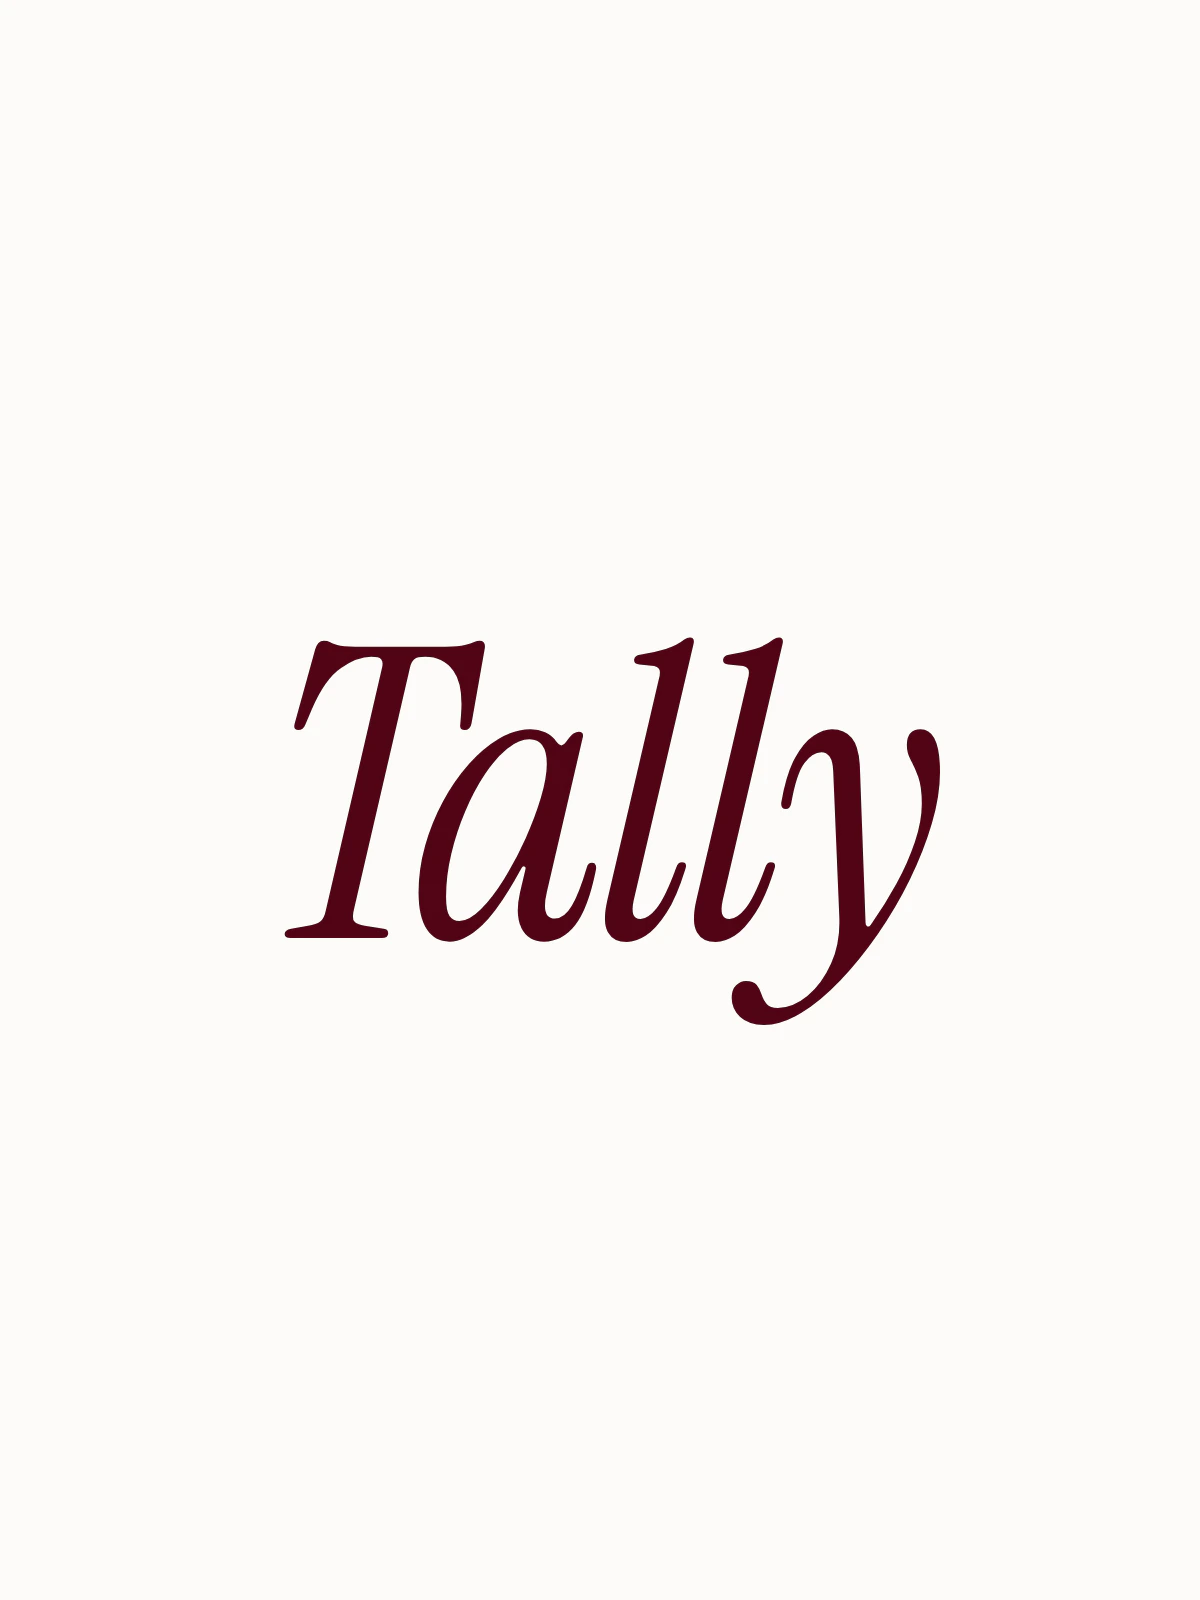
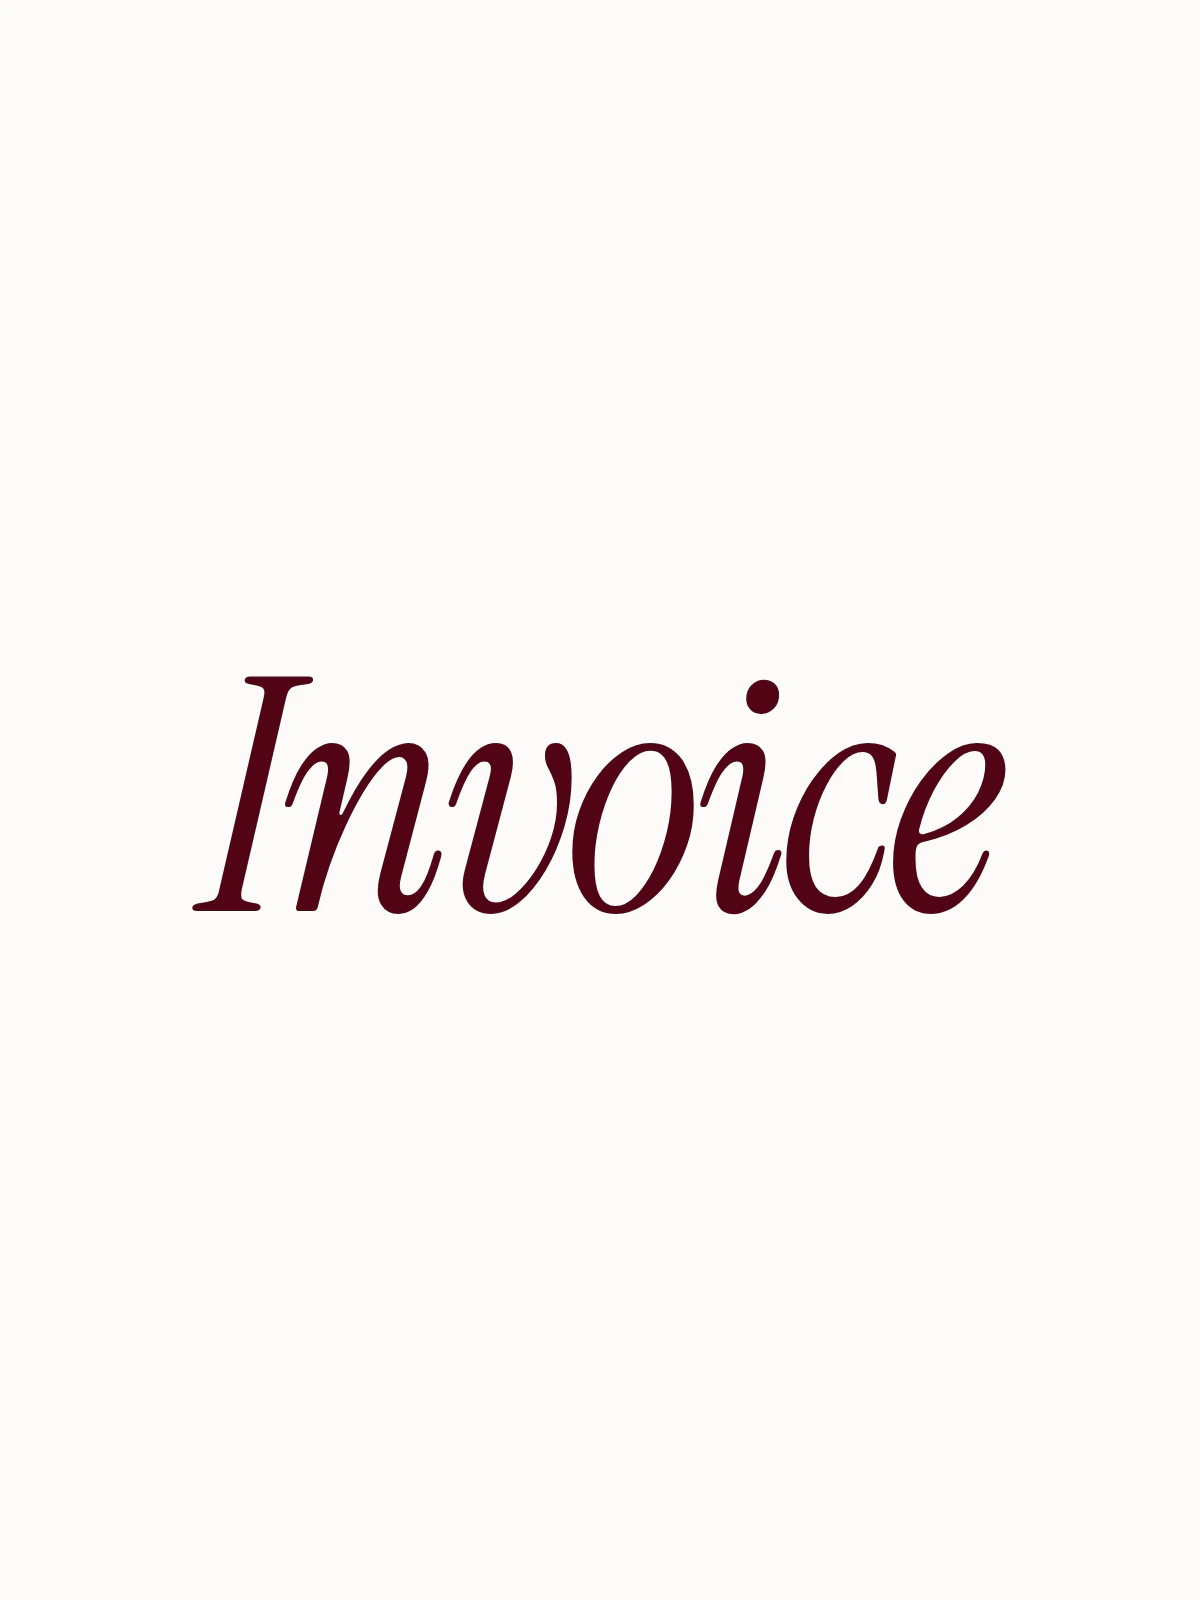
fix: lab tiles use plain names

Changed region(s): [[0.1542, 0.375, 0.8633, 0.6562]]

diff --git a/content/lab-items.ts b/content/lab-items.ts
@@ -27,7 +27,7 @@ export interface LabItem {
 const RAW_ITEMS: LabItem[] = [
   {
     id: 8,
-    name: "Plinth",
+    name: "Mockup",
     line: "3D device mockups, animated and exported",
     href: "/mockup",
     image: "/media/lab/mockup/tile.webp",
@@ -35,7 +35,7 @@ const RAW_ITEMS: LabItem[] = [
   },
   {
     id: 7,
-    name: "Tally",
+    name: "Invoice",
     line: "Invoices, quotes and receipts",
     href: "/invoice",
     image: "/media/lab/invoice/tile.webp",
@@ -43,7 +43,7 @@ const RAW_ITEMS: LabItem[] = [
   },
   {
     id: 6,
-    name: "Postie",
+    name: "Email",
     line: "What breaks in which inbox",
     href: "/email",
     image: "/media/lab/email/tile.webp",
@@ -51,7 +51,7 @@ const RAW_ITEMS: LabItem[] = [
   },
   {
     id: 5,
-    name: "Loop",
+    name: "Motion",
     line: "Fifty looping layouts for your media",
     href: "/motion",
     image: "/media/lab/motion/tile.webp",
